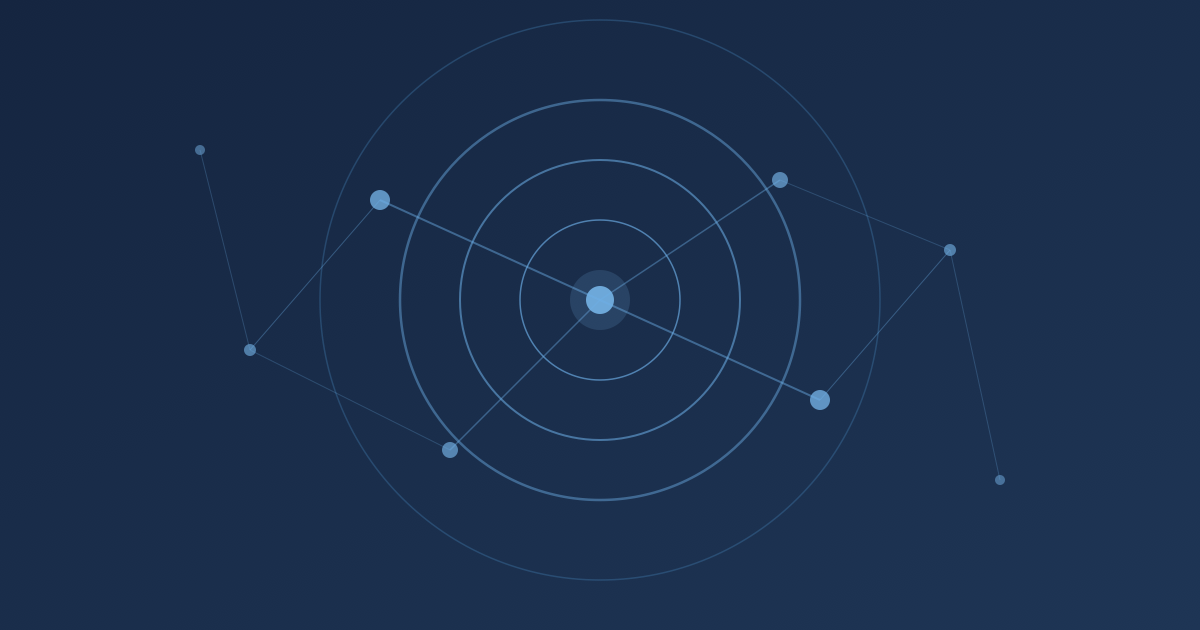
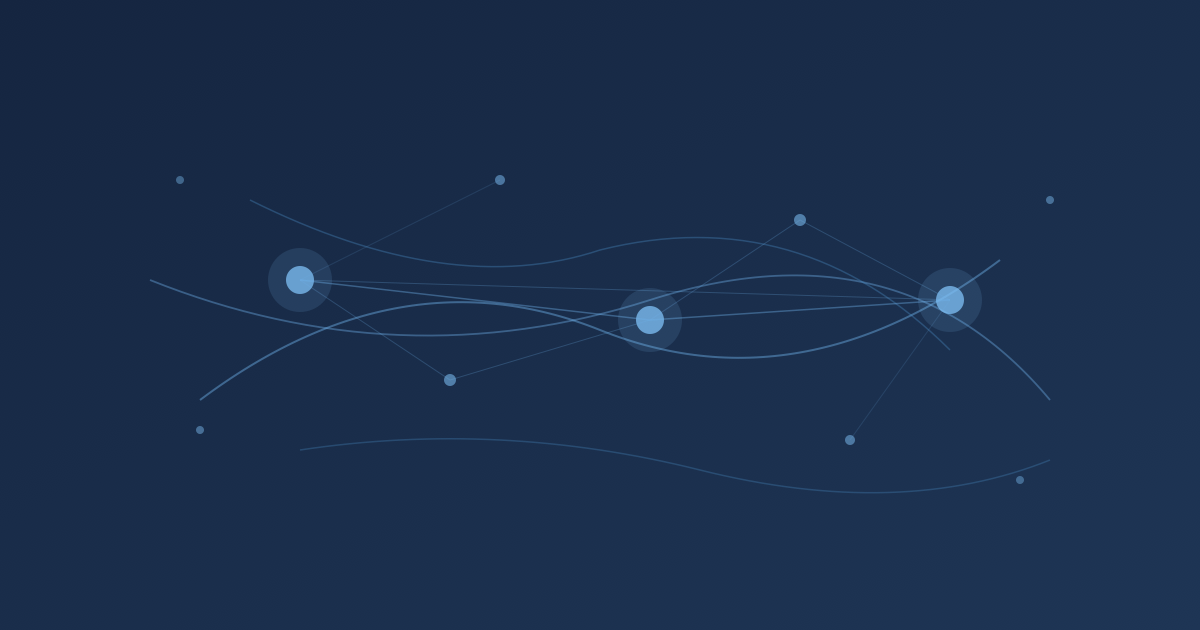
chore: apply 'commons' cover to cognitive commons article (FR/EN)

diff --git a/content/fr/post/communs-cognitifs-defi/index.md b/content/fr/post/communs-cognitifs-defi/index.md
@@ -13,12 +13,11 @@ tags:
   - Commons
   - Governance
 image: cover.png
-coverTheme: pharos
+coverTheme: commons
 draft: false
 ---
 
 *À propos des textes de David Hoffman, du rapport Productive Money d'Etherealize, et de la proposition de Dankrad Feist — mai 2026.*
-
 
 ## Le silence pédagogique
 
@@ -31,7 +30,6 @@ Ce décalage mérite attention. Non parce qu'il révélerait une forme de manipu
 J'écris depuis une position extérieure aux métiers techniques de l'écosystème. Mon intérêt porte moins sur les propriétés cryptographiques des protocoles que sur les formes de connaissance qui les accompagnent. Ce texte propose donc une lecture de la pédagogie comme objet politique. Mon hypothèse est simple : **la DeFi a développé une couche pédagogique particulièrement efficace pour apprendre à agir dans le système, beaucoup moins développée lorsqu'il s'agit de comprendre les structures qui rendent ce système possible.** Cette asymétrie dépasse largement la question de l'utilisateur individuel. Elle concerne la production et l'entretien des communs cognitifs dont dépend tout écosystème ouvert : pédagogie indépendante, recherche critique, méthodologies publiques, standards d'évaluation, infrastructures de lisibilité.
 
 La séquence actuelle autour d'Ethereum offre une occasion rare d'observer ces questions à découvert.
-
 
 ## La pédagogie comme infrastructure
 
@@ -46,7 +44,6 @@ Dans la plupart des domaines, cette sélection rencontre des formes de contre-di
 La DeFi dispose encore relativement peu de ces espaces. Elle possède une abondante production pédagogique, mais des capacités beaucoup plus limitées de contre-pédagogie. **L'écosystème produit massivement des contenus qui expliquent comment utiliser les protocoles. Les institutions capables d'examiner leurs hypothèses, leurs récits ou leurs angles morts demeurent beaucoup plus rares.**
 
 La question n'est donc pas celle d'une pédagogie biaisée face à une pédagogie neutre. Une telle pédagogie n'existe nulle part. La question concerne plutôt l'équilibre entre pédagogie et contre-pédagogie au sein d'un environnement qui continue de se construire.
-
 
 ## Ce que la DeFi prétendait être
 
@@ -63,7 +60,6 @@ Toute une tradition de pensée critique a montré comment le capitalisme contemp
 La trajectoire de nombreux concepts crypto ressemble parfois à ce mouvement. La souveraineté devient une proposition produit. La désintermédiation devient un argument marketing. La résistance à la censure devient une caractéristique technique parmi d'autres. Le vocabulaire demeure. Son inscription institutionnelle change progressivement.
 
 Cette évolution ne résulte pas nécessairement d'une trahison. Elle accompagne souvent la croissance ordinaire des systèmes. La question devient alors celle des institutions capables de préserver, documenter et discuter les promesses initiales lorsque les logiques de développement économique occupent une place croissante.
-
 
 ## La production de lisibilité
 
@@ -83,7 +79,6 @@ Les initiatives comme [DeFiScan](https://www.defiscan.info) ou [L2BEAT](https://
 
 Autrement dit, elles participent à la fabrication d'un commun cognitif.
 
-
 ## La crise Ethereum comme révélateur
 
 Les débats récents autour de David Hoffman, d'Etherealize et de Dankrad Feist permettent de relire cette question sous un angle institutionnel.
@@ -102,7 +97,6 @@ La tension entre ces deux positions dépasse largement Ethereum. Elle pose une q
 
 L'expérience récente suggère une réponse partielle. **Les couches disposant d'un modèle économique identifiable émergent rapidement** : défense de l'actif, infrastructures de données, outils analytiques, produits financiers, dispositifs de croissance. **Les communs cognitifs suivent un rythme beaucoup plus lent.** Leur valeur collective est élevée ; leur modèle économique demeure souvent fragile.
 
-
 ## Financer les communs cognitifs
 
 Cette situation ne relève pas d'un échec particulier d'Ethereum. Elle décrit une difficulté récurrente des infrastructures ouvertes.
@@ -119,7 +113,6 @@ Certaines réponses existent déjà. [Gitcoin](https://www.gitcoin.co), [Giveth]
 
 Le sujet demeure néanmoins largement ouvert. Les outils existent. Les mécanismes existent. Les besoins sont identifiés avec une précision croissante. **Les institutions capables d'en faire une priorité restent encore peu nombreuses.**
 
-
 ## Ce que révèle la séquence actuelle
 
 La crise traversée aujourd'hui par Ethereum ne porte probablement pas uniquement sur la valorisation d'un actif, la gouvernance d'une fondation ou la stratégie d'un écosystème.
@@ -135,7 +128,6 @@ L'enjeu dépasse largement Ethereum. Chaque nouvelle infrastructure ouverte renc
 La réponse ne dépend probablement ni du marché seul, ni d'une fondation seule, ni de quelques individus particulièrement motivés. Elle dépend de la capacité d'un écosystème à considérer la production de connaissance comme un bien commun à part entière.
 
 C'est peut-être sous cet angle que la séquence actuelle apparaît la plus intéressante. Elle ne révèle pas seulement les fragilités d'un protocole. **Elle rappelle qu'aucun commun technique ne demeure durablement ouvert sans institutions capables d'entretenir les communs cognitifs qui lui donnent sens.**
-
 
 ---
 

diff --git a/content/en/post/cognitive-commons/index.md b/content/en/post/cognitive-commons/index.md
@@ -13,12 +13,11 @@ tags:
   - Commons
   - Governance
 image: cover.png
-coverTheme: pharos
+coverTheme: commons
 draft: false
 ---
 
 *On David Hoffman's writings, Etherealize's Productive Money report, and Dankrad Feist's proposal — May 2026.*
-
 
 ## The Pedagogical Silence
 
@@ -31,7 +30,6 @@ This gap deserves attention. Not because it reveals manipulation or bad faith, b
 I write from outside the ecosystem's technical professions. My interest lies less in the cryptographic properties of protocols than in the forms of knowledge that surround them. This text therefore approaches pedagogy as a political object. My central hypothesis is straightforward: **DeFi has developed a teaching layer that is highly effective at showing users how to operate within the system, and far less developed when it comes to understanding the structures that sustain it.** This asymmetry extends well beyond the individual user. It concerns the production and maintenance of the cognitive commons on which every open ecosystem depends: independent pedagogy, critical research, public methodologies, evaluation standards, and infrastructures of legibility.
 
 The current Ethereum sequence offers a rare opportunity to observe these questions in plain view.
-
 
 ## Pedagogy as Infrastructure
 
@@ -46,7 +44,6 @@ In most fields, those selections encounter relatively stable forms of counter-di
 DeFi still has relatively few such spaces. It possesses a rich educational output but a much thinner capacity for counter-pedagogy. **The ecosystem produces an abundance of material explaining how protocols work. Institutions capable of examining the assumptions, narratives, and blind spots embedded in those materials remain comparatively rare.**
 
 The issue is therefore not one of biased pedagogy versus neutral pedagogy. No genuinely neutral pedagogy exists. The issue concerns the balance between pedagogy and counter-pedagogy within an environment that is still taking shape.
-
 
 ## What DeFi Claimed to Be
 
@@ -63,7 +60,6 @@ An entire tradition of critical thought has shown how contemporary capitalism ab
 The trajectory of many crypto concepts at times resembles this movement. Sovereignty becomes a product proposition. Disintermediation becomes a marketing argument. Censorship resistance becomes one technical feature among many. The vocabulary remains. Its institutional anchoring gradually shifts.
 
 This evolution does not necessarily amount to a betrayal. It frequently accompanies the ordinary growth of systems. The question that follows becomes one of institutions — which institutions are able to preserve, document, and discuss the original promises as the logics of economic development take up increasing space.
-
 
 ## The Production of Legibility
 
@@ -83,7 +79,6 @@ Initiatives such as [DeFiScan](https://www.defiscan.info) and [L2BEAT](https://l
 
 In other words, they participate in building a cognitive commons.
 
-
 ## The Ethereum Crisis as a Revealer
 
 The recent debates surrounding David Hoffman, Etherealize, and Dankrad Feist allow us to reread this question through an institutional lens.
@@ -102,7 +97,6 @@ The tension between these two positions extends well beyond Ethereum. It raises 
 
 Recent experience suggests a partial answer. **Layers with an identifiable economic model emerge rapidly**: defense of the asset, data infrastructures, analytical tools, financial products, growth machinery. **Cognitive commons follow a far slower rhythm.** Their collective value is high; their economic model often remains fragile.
 
-
 ## Funding the Cognitive Commons
 
 This situation does not represent a specific failure of Ethereum. It describes a recurring difficulty faced by open infrastructures.
@@ -119,7 +113,6 @@ Some answers already exist. [Gitcoin](https://www.gitcoin.co), [Giveth](https://
 
 The subject nevertheless remains largely open. The tools exist. The mechanisms exist. The needs are being identified with increasing precision. **The institutions willing to make this a priority are still few.**
 
-
 ## What the Current Sequence Reveals
 
 The crisis Ethereum is currently navigating is probably not solely about the valuation of an asset, the governance of a foundation, or the strategy of an ecosystem.
@@ -135,7 +128,6 @@ The stakes extend well beyond Ethereum. Every new open infrastructure encounters
 The answer probably does not lie with the market alone, with a foundation alone, or with a handful of particularly motivated individuals. It lies with an ecosystem's capacity to treat the production of knowledge as a common good in its own right.
 
 It is perhaps from this angle that the current sequence becomes most revealing. It does not merely expose the fragilities of a protocol. **It reminds us that no technical commons remains open over time without institutions capable of maintaining the cognitive commons that give it meaning.**
-
 
 ---
 
